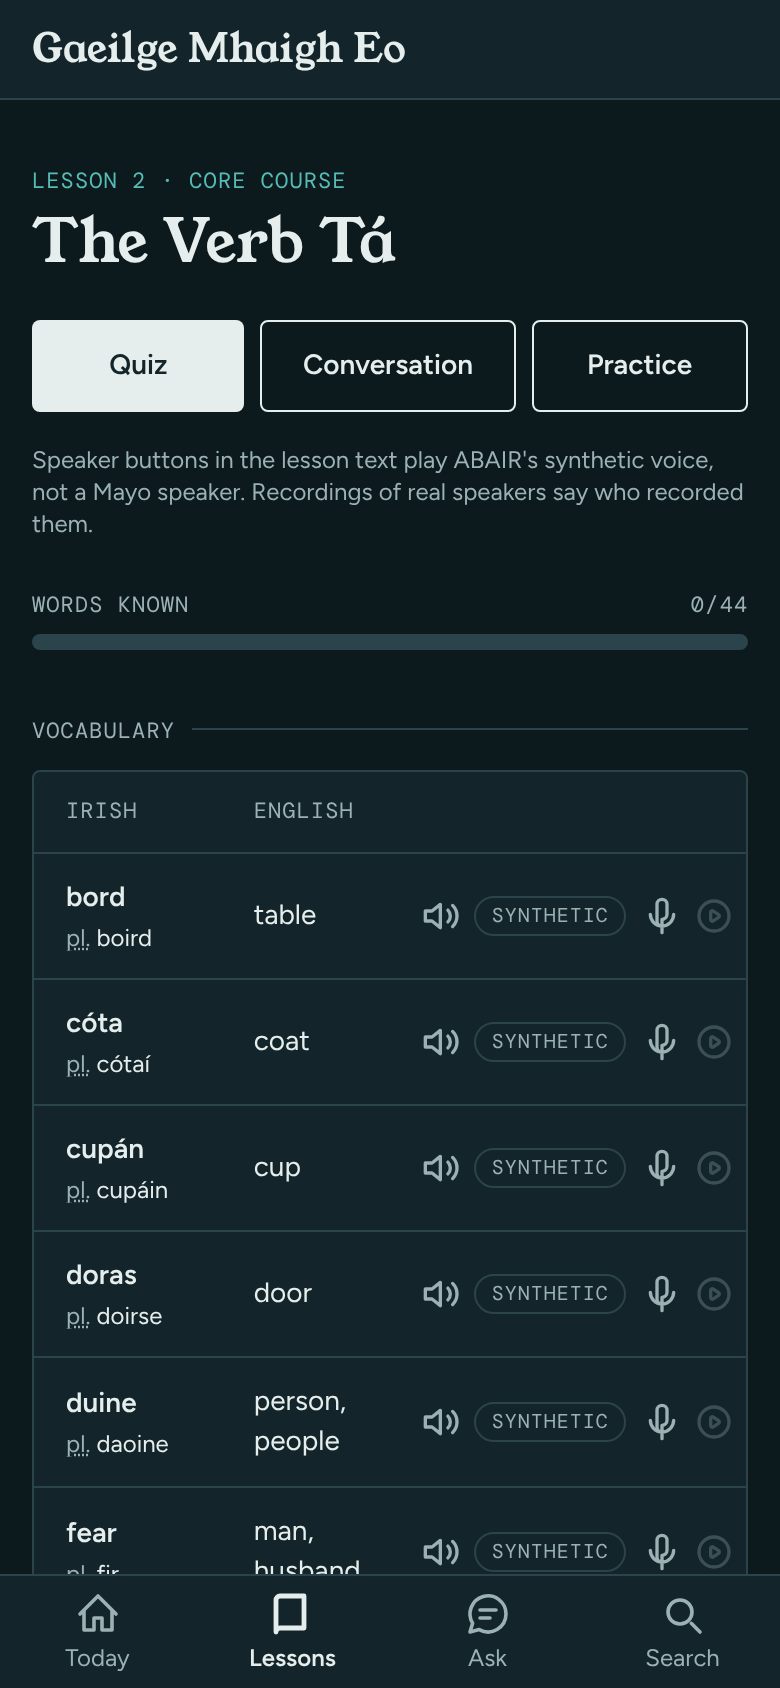
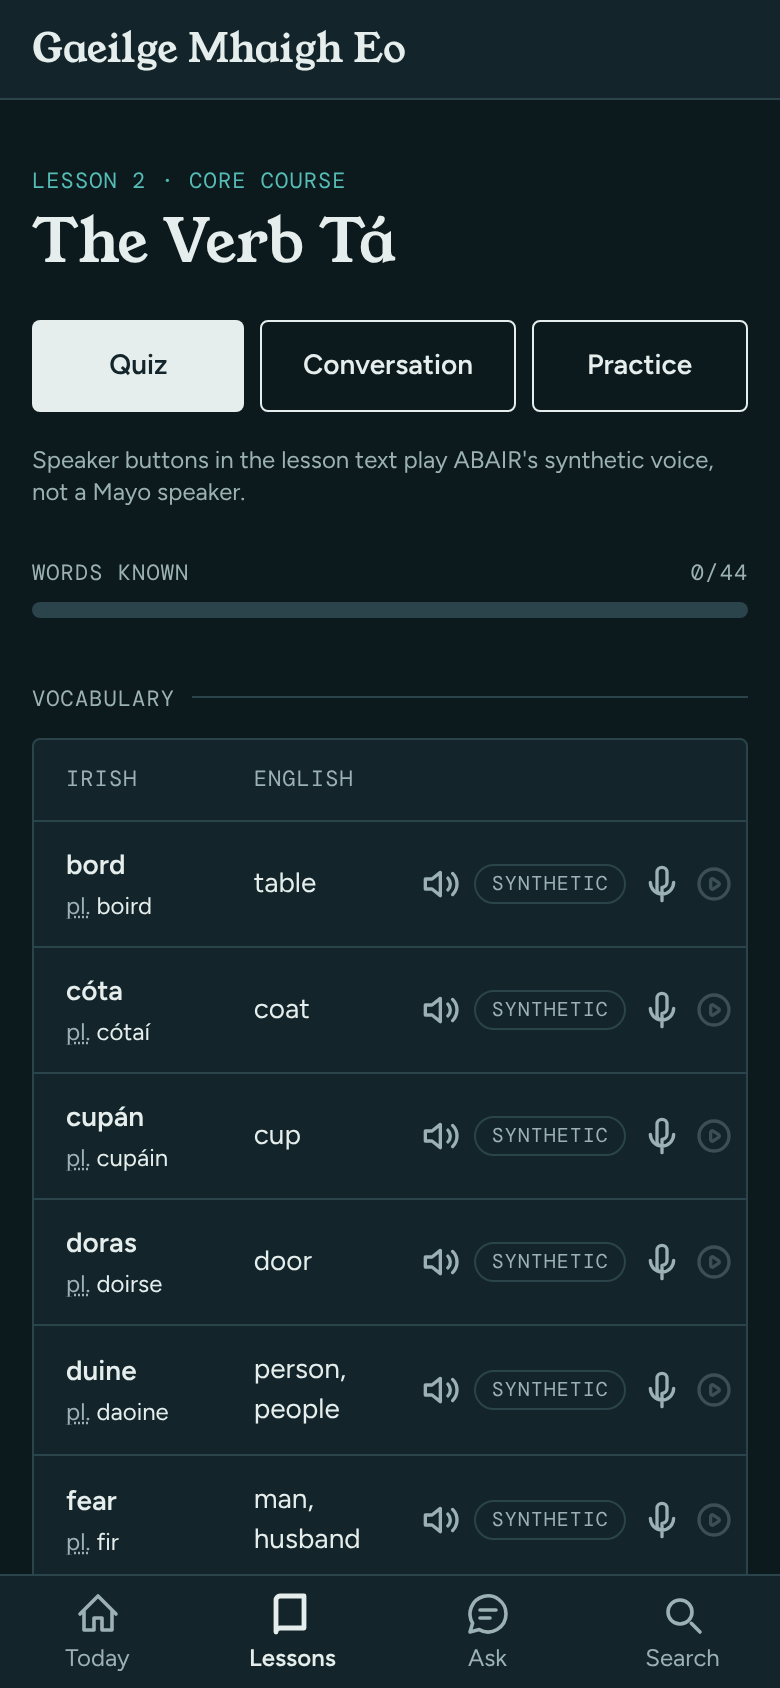
Review fixes: honest tutor notice, no double announcement, no tag in the comhrá bubble
Claude-Session: https://claude.ai/code/session_017wWQS8A8MgjmPnLxpqKA9i

diff --git a/test/controllers/pronunciations_controller_test.rb b/test/controllers/pronunciations_controller_test.rb
@@ -64,5 +64,6 @@ class PronunciationsControllerTest < ActionDispatch::IntegrationTest
     end
     assert_select "[data-synthetic-note]", text: /synthetic voice/
     assert_select "template[data-speakable-target=inline] [data-synthetic-tag]", count: 0
+    assert_select "template[data-speakable-target=inline] button[aria-label='']"
   end
 end
